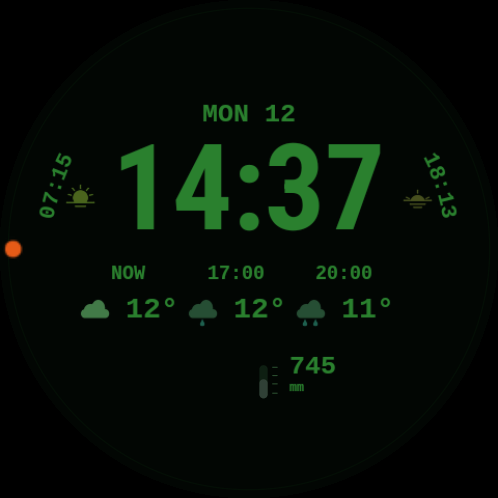
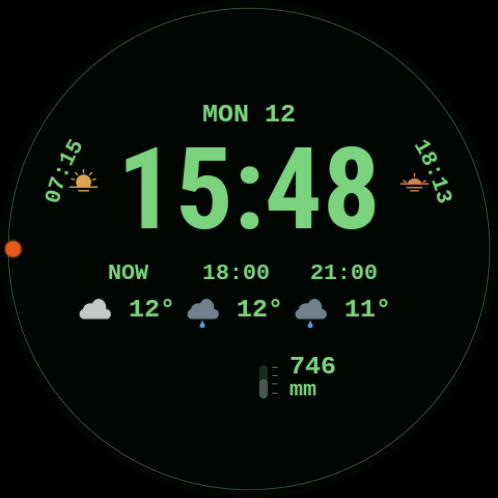
Show unedited watch screenshots and name Ultra2 model

diff --git a/README.uk.md b/README.uk.md
@@ -2,11 +2,11 @@
 
 Зелена приладова панель для Wear OS на Watch Face Format 3. Великий цифровий час оточують компасний лімб і аналогові стрілки. На екрані також є погода, кроки, пульс, заряд годинника й телефона, атмосферний тиск, схід і захід сонця. Найближча подія календаря йде верхньою дугою.
 
-**Стан:** експериментальний проєкт із вихідним кодом, версія 0.2.0. Перевірено на Galaxy Watch SM-L715F з Wear OS 7 (Android 17), екран 498 × 498. Публікації в Play Store немає. Плавність компаса й вплив на батарею ще потребують тривалого тестування.
+**Стан:** експериментальний проєкт із вихідним кодом, версія 0.2.0. Перевірено на Samsung Galaxy Watch Ultra2 (2026; модель SM-L715F) з Wear OS 7 (Android 17), екран 498 × 498. Публікації в Play Store немає. Плавність компаса й вплив на батарею ще потребують тривалого тестування.
 
-![Ілюстративне прев'ю активного циферблата з тестовими даними](docs/images/active-preview.png) ![Режим AOD на годиннику](docs/images/ambient-on-watch.png)
+![Активний циферблат на годиннику](docs/images/active-on-watch.png) ![Режим AOD на годиннику](docs/images/ambient-on-watch.png)
 
-*Ліворуч — згенероване прев’ю з тестовими значеннями, не скриншот годинника. Праворуч — знімок режиму AOD з тестового годинника.*
+*Обидва зображення — незмінені скриншоти з тестового годинника: активний режим ліворуч, AOD праворуч.*
 
 [English](README.md) · [Установлення на годинник](docs/install.uk.md) · [Джерела даних та обмеження](docs/data-sources.md)
 

diff --git a/README.md b/README.md
@@ -2,11 +2,11 @@
 
 A green instrument-panel watch face for Wear OS, built with Watch Face Format 3. Large digital time sits inside a compass rim, with an analog hand, weather, steps, heart rate, watch and phone battery, pressure, sunrise and sunset. A calendar event follows the upper arc.
 
-**Status:** experimental source project, version 0.2.0. Tested on a Galaxy Watch SM-L715F running Wear OS 7 (Android 17), 498 × 498 display. It has not been packaged for the Play Store. The compass animation and battery impact still need longer real-world testing.
+**Status:** experimental source project, version 0.2.0. Tested on a Samsung Galaxy Watch Ultra2 (2026; model SM-L715F) running Wear OS 7 (Android 17), 498 × 498 display. It has not been packaged for the Play Store. The compass animation and battery impact still need longer real-world testing.
 
-![Illustrative active preview with sample data](docs/images/active-preview.png) ![Ambient mode captured on the watch](docs/images/ambient-on-watch.png)
+![Active mode captured on the watch](docs/images/active-on-watch.png) ![Ambient mode captured on the watch](docs/images/ambient-on-watch.png)
 
-*Left: generated preview with sample values, not a watch screenshot. Right: screenshot of ambient mode on the test watch.*
+*Both images are unedited screenshots of the test watch: active mode on the left, ambient mode on the right.*
 
 [Українською](README.uk.md) · [Install on a watch](docs/install.md) · [Source and limitations](docs/data-sources.md)
 

diff --git a/docs/install.uk.md b/docs/install.uk.md
@@ -1,6 +1,6 @@
 # Як установити Pip-Boy на годинник
 
-Ця інструкція встановлює поточну **debug-збірку 0.2.0** із коду. Її перевірено на Galaxy Watch SM-L715F з Wear OS 7. На іншому годиннику назви меню можуть відрізнятися. Потрібні комп’ютер, годинник і мережевий зв’язок між ними; комп’ютер може бути під’єднаний через Ethernet.
+Ця інструкція встановлює поточну **debug-збірку 0.2.0** із коду. Її перевірено на Samsung Galaxy Watch Ultra2 (2026; модель SM-L715F) з Wear OS 7. На іншому годиннику назви меню можуть відрізнятися. Потрібні комп’ютер, годинник і мережевий зв’язок між ними; комп’ютер може бути під’єднаний через Ethernet.
 
 ## 1. Збери два APK
 

diff --git a/docs/install.md b/docs/install.md
@@ -1,6 +1,6 @@
 # Install Pip-Boy on a watch
 
-This guide installs the current **0.2.0 debug build** from source. It was tested on Galaxy Watch SM-L715F with Wear OS 7. Menus may differ on another watch. You need a computer, the watch, and a network path between them; the computer can use Ethernet.
+This guide installs the current **0.2.0 debug build** from source. It was tested on Samsung Galaxy Watch Ultra2 (2026; model SM-L715F) with Wear OS 7. Menus may differ on another watch. You need a computer, the watch, and a network path between them; the computer can use Ethernet.
 
 ## 1. Build the two APKs
 
